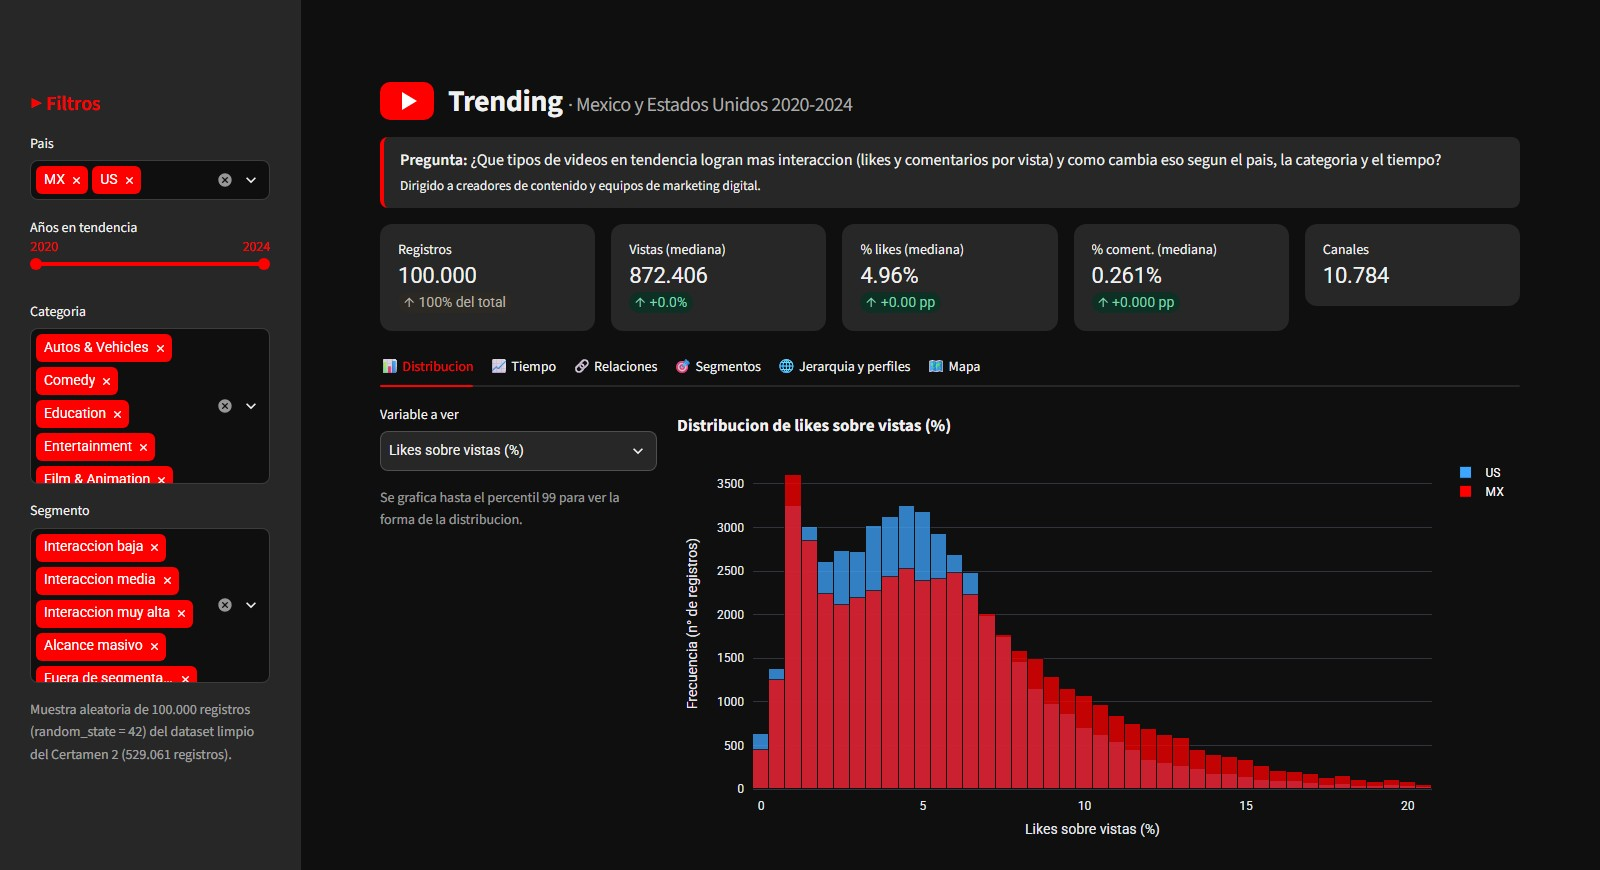
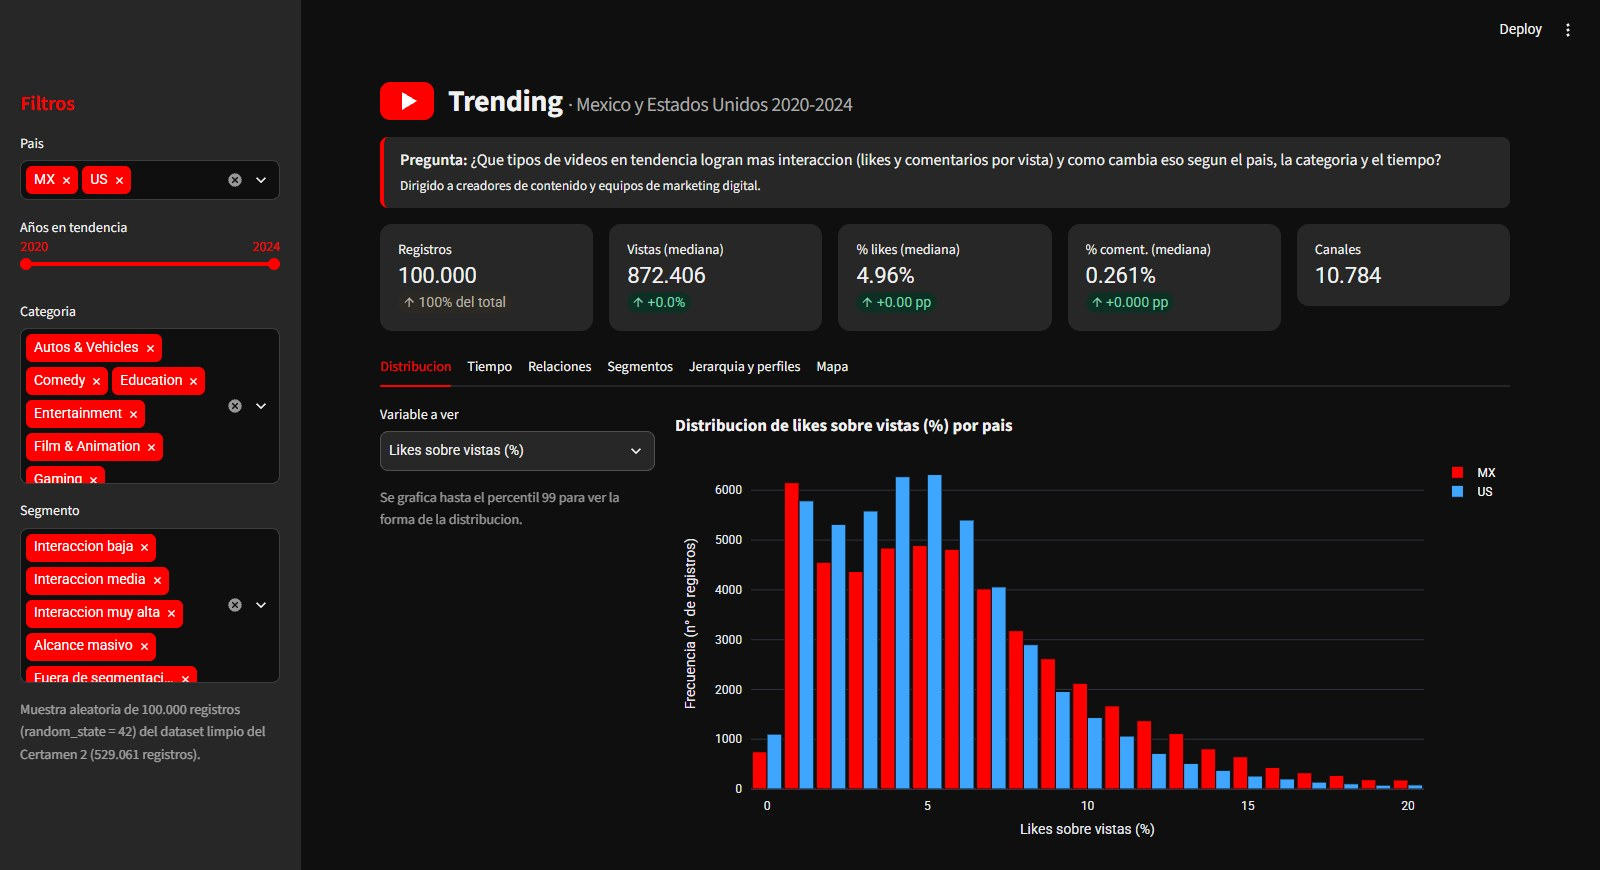
v3.0.0: retroalimentacion Hito 1 (pestañas sin emojis, histograma agrupado, nuevos colores del sunburst)
- Pestañas sin emojis
- Histograma con barras MX/US lado a lado (antes overlay mezclaba los colores)
- Sunburst con escala amarillo-naranjo-rojo y maxdepth=2
- Tooltips en codo y sunburst; tabla de perfiles con descripcion e interpretacion
- Coordenadas paralelas con margen para el titulo; README y captura actualizados

Claude-Session: https://claude.ai/code/session_01XWVhkFd6wWSbRcudMixu72

diff --git a/app.py b/app.py
@@ -110,7 +110,7 @@ interaccion (likes y comentarios por vista) y como cambia eso segun el pais, la 
 <small>Dirigido a creadores de contenido y equipos de marketing digital.</small></div>""", unsafe_allow_html=True)
 
 # ── 4. Filtros globales (panel lateral) ──────────────────────
-st.sidebar.markdown(f"<h2 style='color:{ROJO}'>▶ Filtros</h2>", unsafe_allow_html=True)
+st.sidebar.markdown(f"<h2 style='color:{ROJO}'>Filtros</h2>", unsafe_allow_html=True)
 
 paises = st.sidebar.multiselect("Pais", ["MX", "US"], default=["MX", "US"])
 
@@ -153,7 +153,7 @@ k5.metric("Canales", f"{dff['channelTitle'].nunique():,}".replace(",", "."))
 
 # ── 6. Pestañas ──────────────────────────────────────────────
 tab1, tab2, tab3, tab4, tab5, tab6 = st.tabs(
-    ["📊 Distribucion", "📈 Tiempo", "🔗 Relaciones", "🎯 Segmentos", "🌐 Jerarquia y perfiles", "🗺 Mapa"])
+    ["Distribucion", "Tiempo", "Relaciones", "Segmentos", "Jerarquia y perfiles", "Mapa"])
 
 # ---------- 6.1 Univariado ----------
 with tab1:
@@ -163,13 +163,17 @@ with tab1:
                             format_func=lambda x: ETIQUETAS[x])
     c1.caption("Se grafica hasta el percentil 99 para ver la forma de la distribucion.")
     p99 = dff[variable].quantile(0.99)
-    fig = px.histogram(dff[dff[variable] <= p99], x=variable, color="country", nbins=60,
-                       barmode="overlay", opacity=0.75, color_discrete_map=COLOR_PAIS,
-                       labels=ETIQUETAS, title=f"Distribucion de {ETIQUETAS[variable].lower()}")
+    # barmode="group": una barra por pais lado a lado. Con "overlay" el rojo y el azul se
+    # superponian y la mezcla se veia como un segundo tono de rojo.
+    fig = px.histogram(dff[dff[variable] <= p99], x=variable, color="country", nbins=40,
+                       barmode="group", color_discrete_map=COLOR_PAIS,
+                       category_orders={"country": ["MX", "US"]},
+                       labels=ETIQUETAS, title=f"Distribucion de {ETIQUETAS[variable].lower()} por pais")
     fig.update_yaxes(title="Frecuencia (n° de registros)")
-    fig.update_traces(hovertemplate="Rango: %{x}<br>Registros: %{y:,}<extra></extra>")
+    fig.update_traces(hovertemplate="<b>%{fullData.name}</b><br>Rango: %{x}<br>Registros: %{y:,}<extra></extra>")
     # Linea del color del fondo entre barras para separarlas
     fig.update_traces(marker_line_width=1, marker_line_color=FONDO)
+    fig.update_layout(bargap=0.08)
     c2.plotly_chart(estilo(fig), width="stretch")
 
     conteo_cat = dff["categoria"].value_counts().reset_index()
@@ -219,7 +223,7 @@ with tab4:
         c1, c2 = st.columns(2)
         fig = px.line(codo, x="k", y="inercia", markers=True, color_discrete_sequence=[ROJO],
                       labels={"k": "Numero de segmentos (k)", "inercia": "Inercia (suma de distancias²)"},
-                      title="Metodo del codo: se elige k = 4")
+                      hover_data={"inercia": ":,.0f"}, title="Metodo del codo: se elige k = 4")
         c1.plotly_chart(estilo(fig), width="stretch")
 
         # Radar: promedios por segmento escalados de 0 a 1
@@ -250,8 +254,26 @@ with tab4:
                                             comentarios_pct_promedio=("comentarios_pct", "mean"))
         tabla["porcentaje"] = tabla["n"] / tabla["n"].sum() * 100
         tabla["categoria_dominante"] = seg.groupby("segmento")["categoria"].agg(lambda x: x.value_counts().index[0])
+        tabla["descripcion"] = tabla.index.map({
+            "Interaccion baja": "Vistas normales, pocos likes y comentarios por vista",
+            "Interaccion media": "Vistas normales, buen % de likes",
+            "Interaccion muy alta": "Vistas normales, el publico da like y comenta mucho",
+            "Alcance masivo": "Muchisimas vistas, interaccion moderada"})
         st.subheader("Tabla de perfiles")
-        st.dataframe(tabla.sort_values("n", ascending=False).round(2), width="stretch")
+        st.dataframe(tabla.sort_values("n", ascending=False).round(2), width="stretch",
+                     column_config={"n": st.column_config.NumberColumn("Videos (n)", format="%d"),
+                                    "porcentaje": st.column_config.NumberColumn("% del total", format="%.1f %%"),
+                                    "vistas_promedio": st.column_config.NumberColumn("Vistas promedio", format="%.0f"),
+                                    "likes_pct_promedio": st.column_config.NumberColumn("% likes promedio", format="%.2f"),
+                                    "comentarios_pct_promedio": st.column_config.NumberColumn("% comentarios promedio", format="%.3f"),
+                                    "categoria_dominante": "Categoria dominante", "descripcion": "Descripcion"})
+        tabla = tabla[["n", "porcentaje", "vistas_promedio", "likes_pct_promedio", "comentarios_pct_promedio",
+                       "categoria_dominante", "descripcion"]]
+        mayor = tabla["n"].idxmax()
+        st.info(f"Interpretacion: el segmento mas grande es «{mayor}» ({tabla.loc[mayor, 'porcentaje']:.0f} % de los "
+                "videos segmentados). Estar en tendencia no garantiza interaccion: la mayoria recibe pocos likes y "
+                "comentarios por vista. «Alcance masivo» suma vistas pero no interaccion, y «Interaccion muy alta» "
+                "es el grupo mas valioso para un creador.")
 
         # Selector para ver el detalle de un segmento
         elegido = st.selectbox("Ver detalle del segmento", tabla.sort_values("n", ascending=False).index)
@@ -272,10 +294,20 @@ with tab5:
     jerarquia = dff.groupby(["country", "categoria", "segmento"]).agg(
         registros=("video_id", "count"), likes_pct=("likes_pct", "median")).reset_index()
     fig = px.sunburst(jerarquia, path=["country", "categoria", "segmento"], values="registros",
-                      color="likes_pct", color_continuous_scale=["#272727", "#FF0000"],
+                      # Escala amarillo -> naranjo -> rojo: amarillo = poca interaccion, rojo = mucha.
+                      # (No se usa azul/rojo para no confundir con los colores de pais)
+                      color="likes_pct", color_continuous_scale=["#FFE8A3", "#FFB000", "#FF5A1F", "#C80000"],
+                      range_color=[jerarquia["likes_pct"].quantile(0.10), jerarquia["likes_pct"].quantile(0.90)],
+                      maxdepth=2,
                       hover_data={"likes_pct": ":.2f"}, labels={"likes_pct": "Mediana % likes"},
                       title="Pais → categoria → segmento (tamaño = registros, color = mediana % likes)")
+    fig.update_traces(marker_line_color=FONDO, marker_line_width=1.5, insidetextorientation="radial",
+                      hovertemplate="<b>%{label}</b><br>Ruta: %{id}<br>Registros: %{value:,}"
+                                    "<br>Mediana % likes: %{color:.2f}<extra></extra>")
+    fig.update_layout(height=620)
     st.plotly_chart(estilo(fig), width="stretch")
+    st.caption("Rojo = mayor % de likes, amarillo = menor. Haz clic en una categoria para ver sus segmentos; "
+               "clic en el centro para volver.")
 
     muestra_par = dff.sample(min(3000, len(dff)), random_state=42)
     muestra_par = muestra_par[muestra_par["view_count"] <= dff["view_count"].quantile(0.99)]
@@ -283,7 +315,9 @@ with tab5:
                                                            "dias_a_tendencia"],
                                   color="likes_pct", color_continuous_scale=["#3EA6FF", "#FFFFFF", "#FF0000"],
                                   labels=ETIQUETAS, title="Coordenadas paralelas (color = % de likes)")
-    st.plotly_chart(estilo(fig), width="stretch")
+    # Margen superior extra para que el titulo no tape los nombres de los ejes
+    fig = estilo(fig).update_layout(margin=dict(l=70, r=30, t=120, b=30), height=520)
+    st.plotly_chart(fig, width="stretch")
 
 # ---------- 6.6 Mapa (coropleta por pais) ----------
 with tab6:

diff --git a/README.md b/README.md
@@ -4,7 +4,7 @@ Dashboard interactivo del examen final de **Visualización de la Información (U
 
 **App publicada:** https://dashboard-trending-mx-us.streamlit.app
 
-**Versión:** v2.1.0-beta (Hito 1)
+**Versión:** v3.0.0 (Hito 2 — versión final)
 
 ![Captura del dashboard](captura.jpg)
 
@@ -46,8 +46,17 @@ El dataset no tiene latitud ni longitud, por lo que el componente avanzado es la
 | Tiempo | Mediana mensual por país |
 | Relaciones | Dispersión vistas vs % likes con selector de color (control local) |
 | Segmentos | Método del codo, radar (`px.line_polar`), dispersión por segmento, tabla de perfiles y selector de segmento |
-| Jerarquía y perfiles | Sunburst país → categoría → segmento y coordenadas paralelas |
+| Jerarquía y perfiles | Sunburst país → categoría → segmento (`path` y `values = registros`) y coordenadas paralelas |
 | Mapa | Coropleta por país con `px.choropleth_map` |
+
+## Cambios desde la beta 2.1.0 (retroalimentación del Hito 1)
+
+- **Pestañas sin emojis:** nombres limpios (Distribución, Tiempo, Relaciones, Segmentos, Jerarquía y perfiles, Mapa), como pidió el profesor.
+- **Histogramas más claros:** las barras de México (rojo) y Estados Unidos (azul) ahora van lado a lado (`barmode="group"`). Antes se superponían con transparencia y la mezcla se veía como un segundo tono de rojo.
+- **Sunburst con nueva escala de color:** amarillo → naranjo → rojo según la mediana de % likes (antes gris → rojo, poco legible). Se abre en dos niveles (país → categoría) y con un clic se ven los segmentos.
+- **Tooltips personalizados** también en el método del codo y en el sunburst.
+- **Tabla de perfiles** con nombres de columna legibles, % del total y una descripción de cada segmento, más un texto de interpretación.
+- **Coordenadas paralelas:** el título ya no tapa los nombres de los ejes.
 
 ## Estructura del repositorio
 
